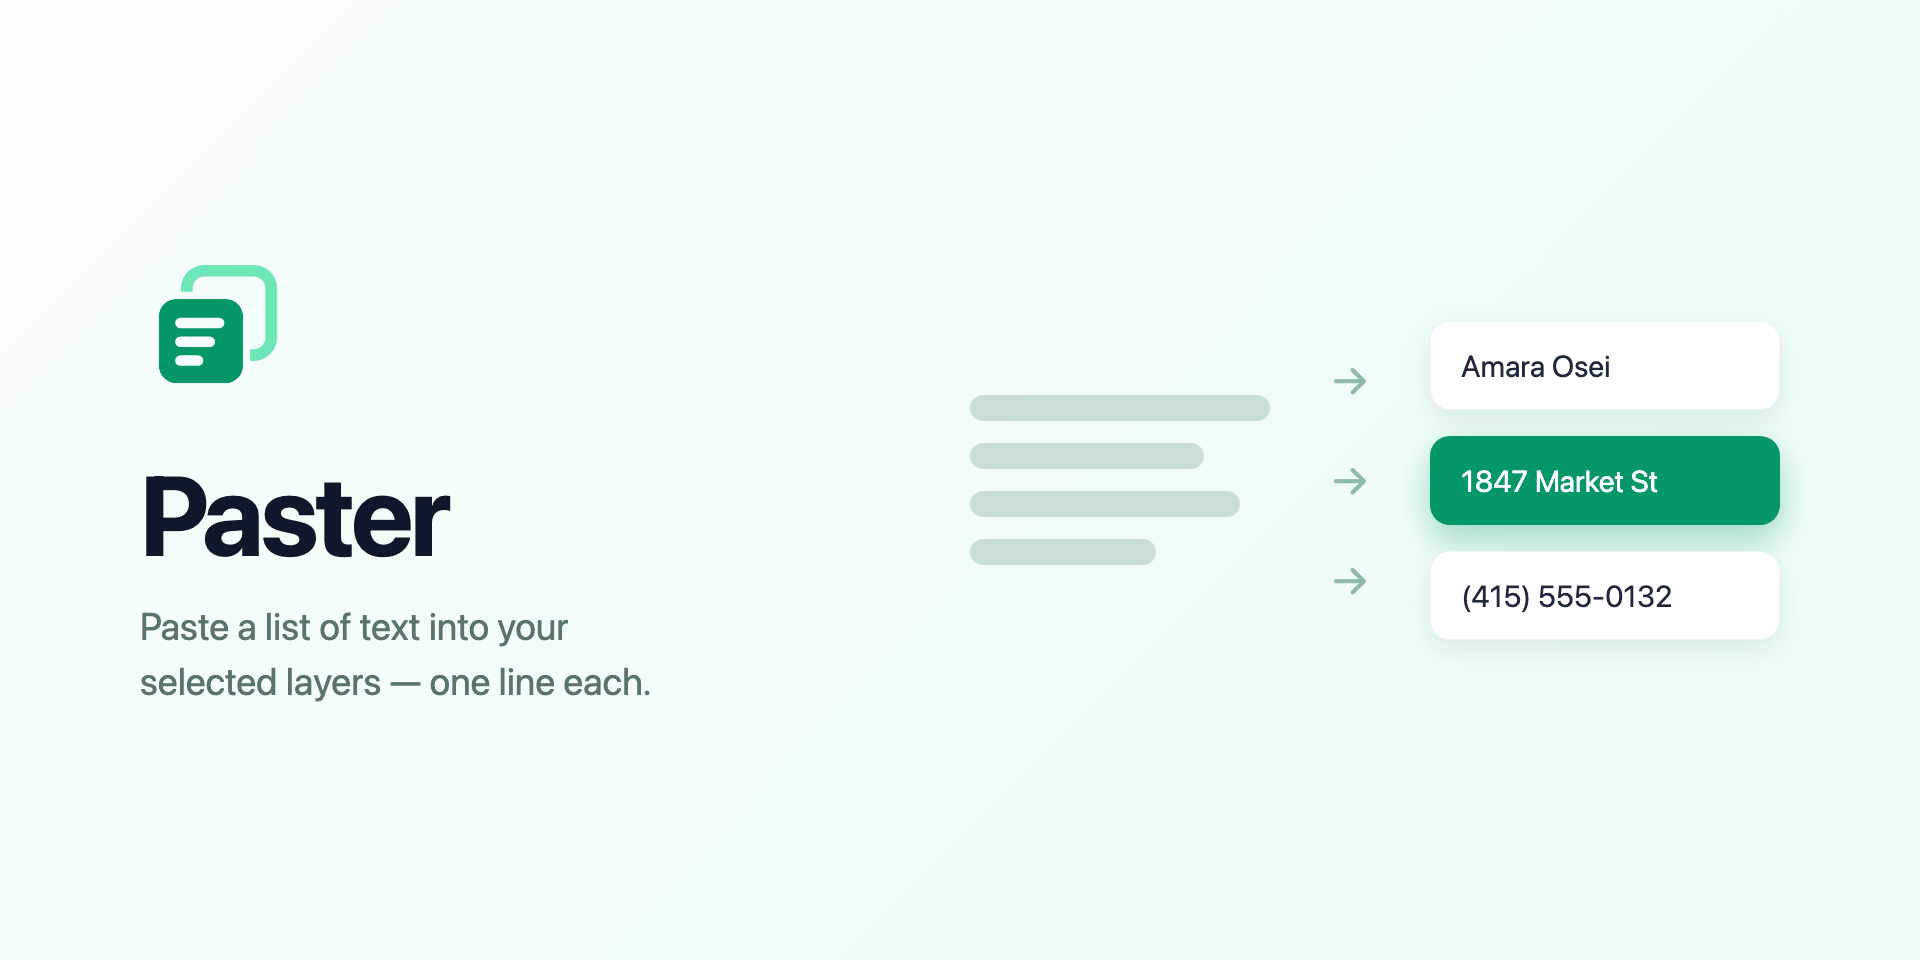
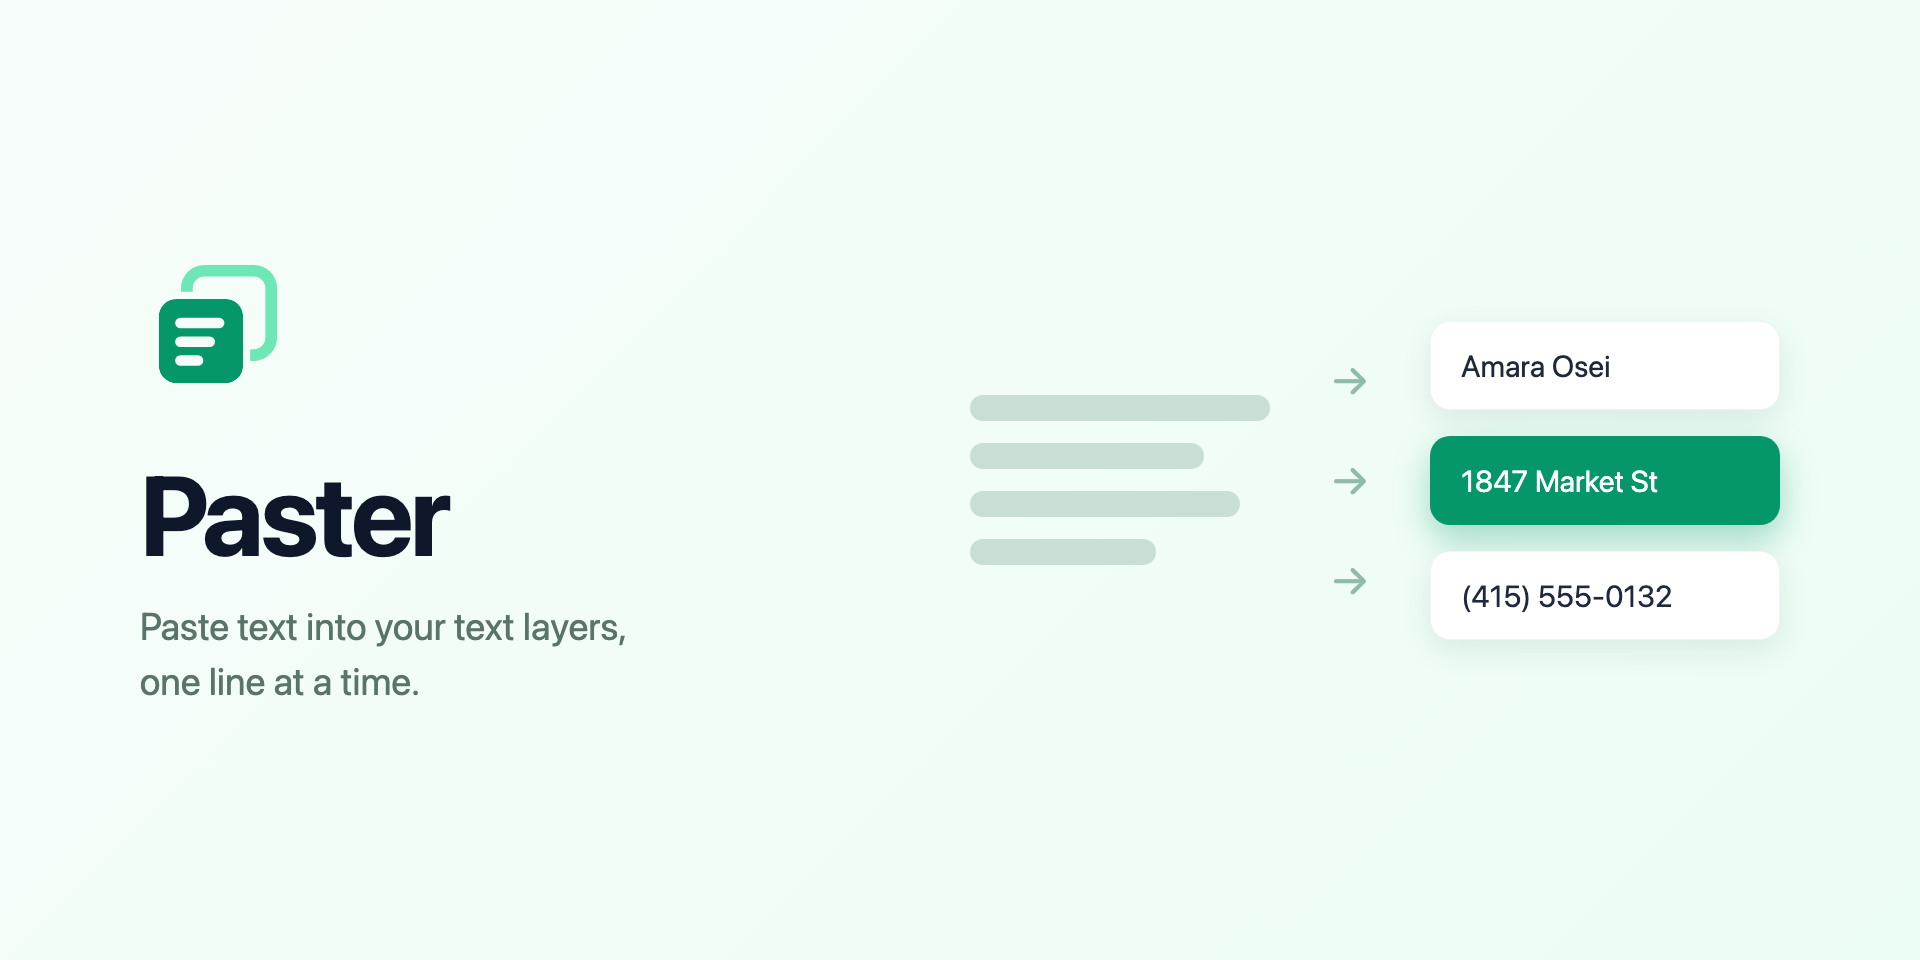
feat: update README and package description for clarity and consistency

Changed region(s): [[0.0625, 0.625, 0.3438, 0.75]]

diff --git a/README.md b/README.md
@@ -2,7 +2,7 @@
 
 # Paster
 
-A Figma and FigJam plugin that pastes a list of text into your selected layers — one line per layer — and copies text back out of a selection.
+Paste text into your text layers, one line at a time. A Figma and FigJam plugin that fills a selection from a list, and copies text back out of one.
 
 Drop in a column from a spreadsheet, a list of names, or a set of copy variants, select the text layers you want filled, and hit Paste.
 
@@ -57,9 +57,24 @@ The UI is bundled into a single self-contained `dist/ui.html`, which is what Fig
 3. Upload `assets/icon-128.png` as the plugin icon and `assets/cover-art.png` as the cover image.
 4. Use the description and tags below, then submit for review.
 
-**Description**
+**Description** — ready to paste into the Community listing:
 
-> Paste a list of text into your selected layers — one line each. Drop in a column from a spreadsheet or a list of copy variants, select your text layers, and fill them all at once. Loop a short list across many layers, ignore empty lines, trim whitespace, reverse or shuffle the order, fill in canvas reading order, or split on commas and custom separators. Copy from selection pulls text back out the same way. Your settings are remembered between sessions.
+```text
+Paste text into your text layers, one line at a time.
+
+Features
+• Fill a selection of text layers from a list — one line per layer
+• Loop through the list when there are more layers than lines
+• Ignore empty lines
+• Trim whitespace from each line
+• Reverse or shuffle the order
+• Sort by canvas position instead of layer order
+• Split on new lines, commas, or a custom separator
+• Copy from selection — pull text back out of selected layers
+• Options are saved between sessions
+
+Works in Figma and FigJam.
+```
 
 **Tags:** text, content, copy, paste, localization, data, productivity
 
